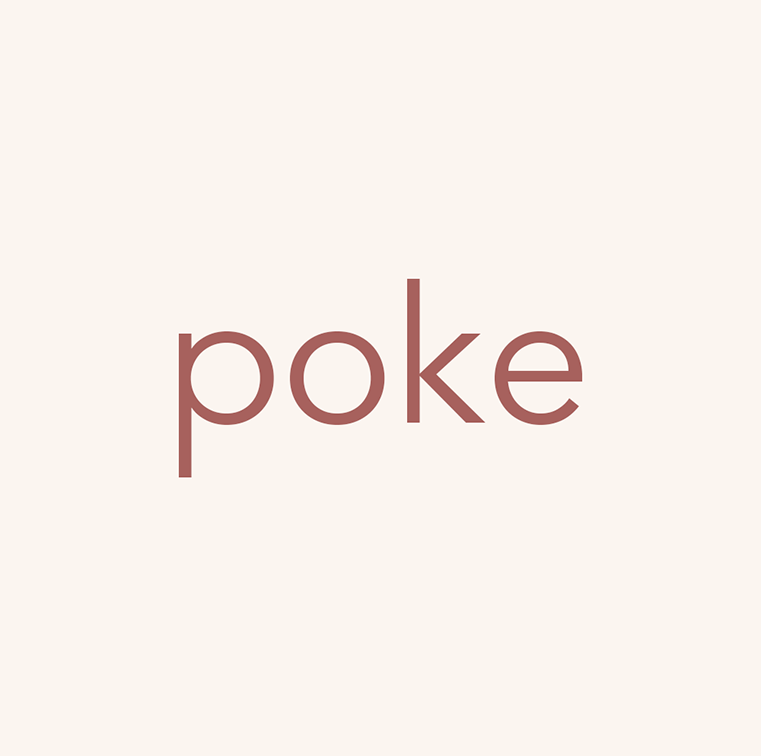
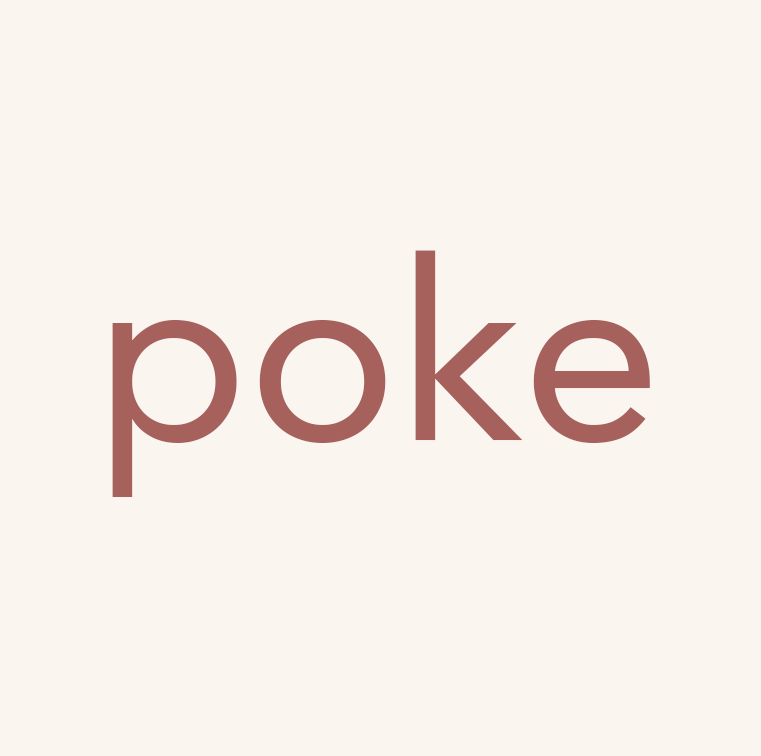
“スプラッシュ・アイコン調整”

Changed region(s): [[0.1209, 0.3042, 0.8765, 0.6693]]

diff --git a/sketch.js b/sketch.js
@@ -33,26 +33,26 @@ function setup() {
 function draw() {
   background(255, 255);
 
-  if (showSplash) {
-    imageMode(CENTER);
-    tint(255, splashAlpha);
+if (showSplash) {
+  imageMode(CENTER);
+  tint(255, splashAlpha);
 
-    let w = min(width * 0.6, 500); // 最大幅500px or 画面の60%
-    let h = (splashImage.height / splashImage.width) * w;
+  // 表示サイズを画面幅の60%、最大500pxに制限
+  let targetWidth = min(width * 0.6, 500);
+  let aspect = splashImage.height / splashImage.width;
+  let targetHeight = targetWidth * aspect;
 
-    image(splashImage, width / 2, height / 2, w, h); // リサイズして描画
+  image(splashImage, width / 2, height / 2, targetWidth, targetHeight);
 
-    splashTimer++;
-
-    if (splashTimer > 100) {
-      splashAlpha -= 5;
-    }
-
-    if (splashAlpha <= 0) {
-      showSplash = false;
-    }
-    return;
+  splashTimer++;
+  if (splashTimer > 60) {
+    splashAlpha -= 5;
   }
+  if (splashAlpha <= 0) {
+    showSplash = false;
+  }
+  return;
+}
 
   // マウス押下中は粒子を出し続ける（水道のように）
   if (mouseIsPressed) {
